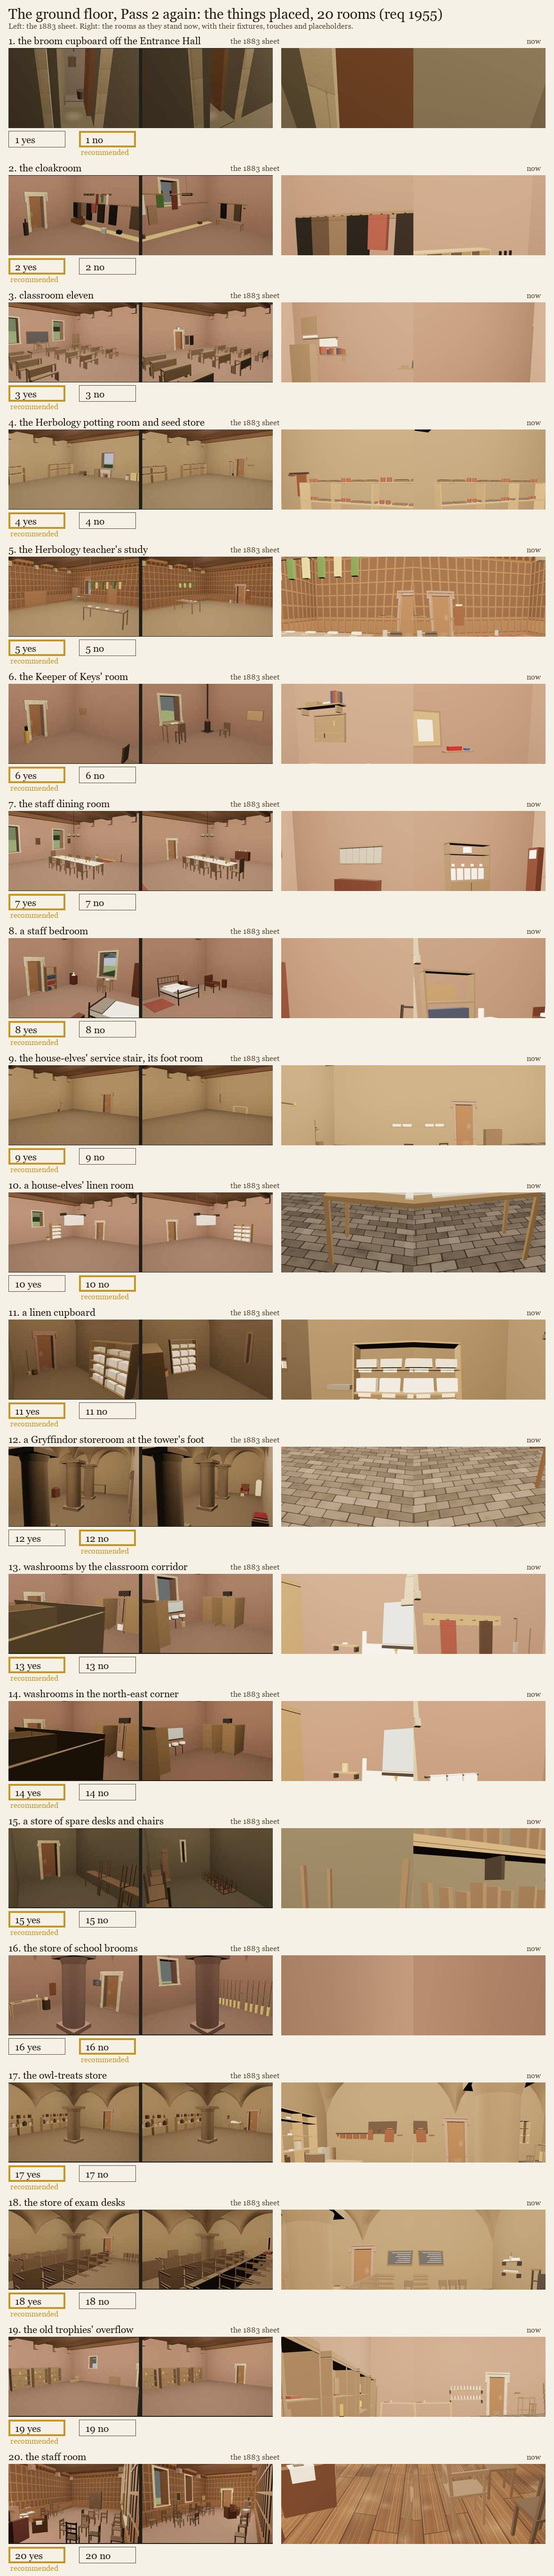
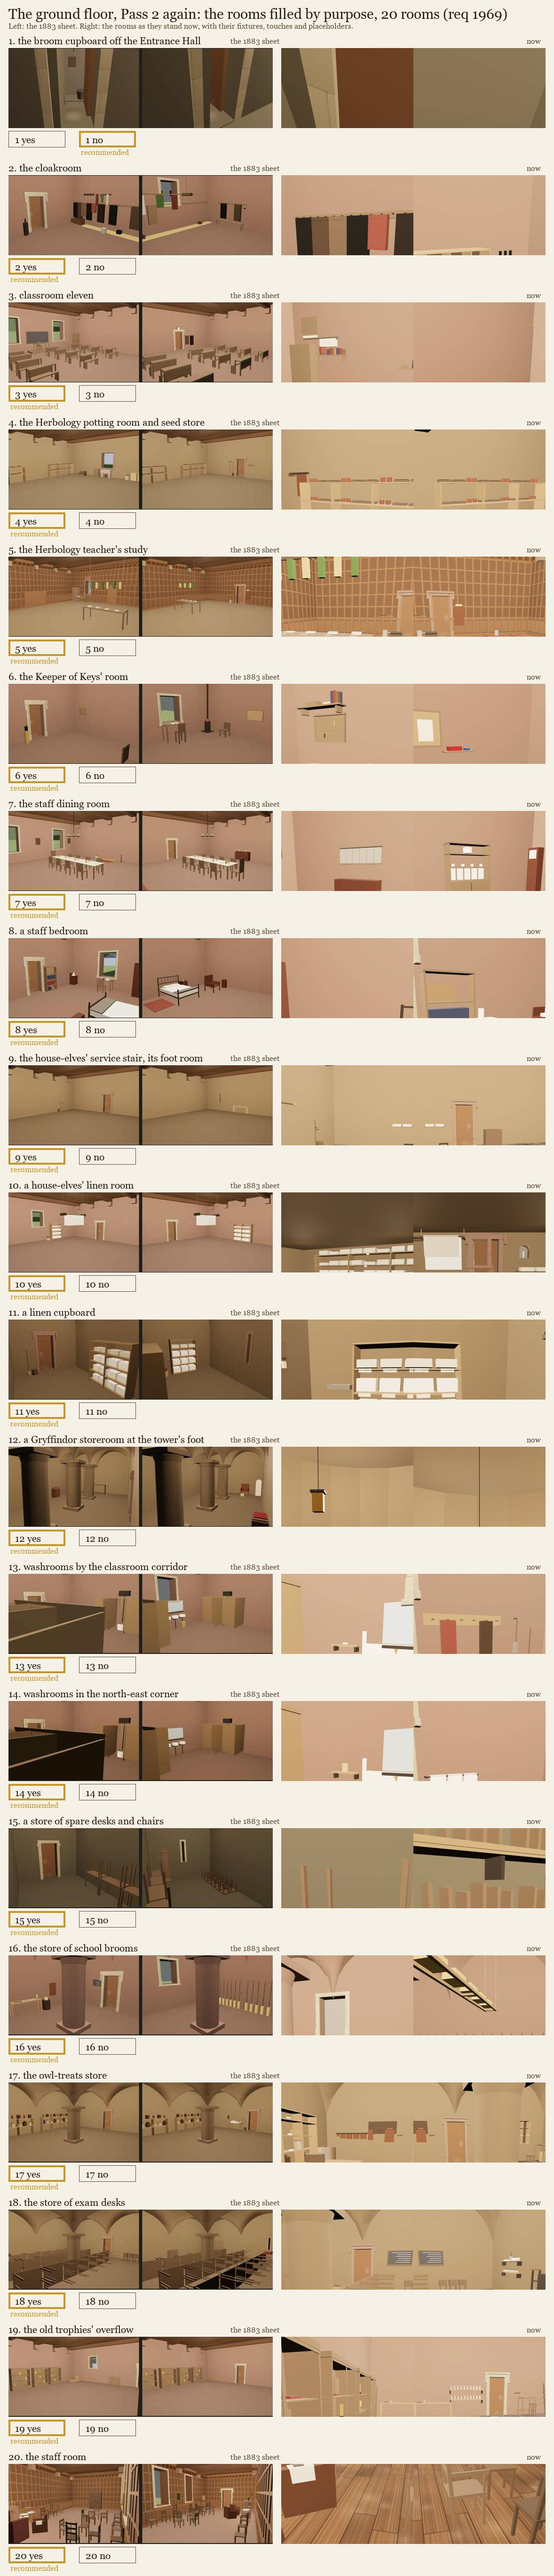
Public copy: shell-w5a.js and the ground floor Pass 2 sheet

diff --git a/page/shell-w5a.js b/page/shell-w5a.js
@@ -3057,6 +3057,153 @@ window.SHELL_W5A = {
   /* G-ADDS end elves-linen-room */
 })(window.SHELL_W5A.things);
 /* G-ADDS finish */
+/* G-PURPOSE begin */
+/* req 1969: the by-purpose fixtures (docs/interiors/ground-floor-by-purpose-1031.md), written by
+   tools/architect-g-purpose.py: never edit by hand. Each adds to its room's things. */
+(function (T) {
+  function add(id, items) { T[id] = T[id] || { items: [] }; T[id].items = T[id].items.concat(items); }
+  /* G-PURPOSE cloakroom-g */
+  /* req 1969, by-purpose n 2: a boot rack with dubbin tins and a bucket, three umbrellas, a drying rail, a mud brush and pan, a basket of odd gloves */
+  add('cloakroom-g', [
+    ['b', 111.37, 56.93, 0, 112.57, 57.23, 0.4, 'oak'], ['y', 112.7, 57.18, 0.05, 0, 0.1, 'tin'], ['y', 112.88, 57.18, 0.05, 0, 0.1, 'tin'], ['y', 113.16, 57.08, 0.15, 0, 0.3, 'leather'],
+    ['y', 111.17, 56.38, 0.03, 0, 0.9, 'black'], ['y', 111.17, 56.52, 0.03, 0, 0.9, 'black'], ['y', 111.17, 56.66, 0.03, 0, 0.9, 'black'], ['b', 117.43, 51.85, 1.9, 117.5, 53.51, 1.96, 'iron'],
+    ['b', 117.35, 51.93, 1.84, 117.45, 53.43, 1.9, 'wood'], ['b', 111.14, 55.9, 0, 111.32, 56.2, 0.12, 'wood'], ['y', 116.37, 56.98, 0.25, 0, 0.35, 'wicker'], ['b', 116.7, 57.11, 0, 116.95, 57.23, 0.08, 'scarlet']]);
+  /* G-PURPOSE end cloakroom-g */
+  /* G-PURPOSE classroom-eleven */
+  /* req 1969, by-purpose n 3: slates and chalk on a shelf, a fire bucket, a lectern, the register on a shelf, a coat stand by the door */
+  add('classroom-eleven', [
+    ['b', 129.07, 65.1, 1.0, 129.27, 67.74, 1.03, 'oak'], ['b', 129.19, 65.18, 1.03, 129.21, 65.48, 1.25, 'slate'], ['b', 129.19, 65.56, 1.03, 129.21, 65.86, 1.25, 'slate'], ['b', 129.19, 65.94, 1.03, 129.21, 66.24, 1.25, 'slate'],
+    ['b', 129.19, 66.32, 1.03, 129.21, 66.62, 1.25, 'slate'], ['b', 129.19, 66.7, 1.03, 129.21, 67.0, 1.25, 'slate'], ['b', 129.19, 67.08, 1.03, 129.21, 67.38, 1.25, 'slate'], ['b', 129.09, 67.46, 1.03, 129.21, 67.66, 1.11, 'oak'],
+    ['y', 129.08, 62.05, 0.15, 0, 0.28, 'tin'], ['b', 124.8, 60.77, 0, 125.3, 61.17, 1.1, 'oak'], ['b', 118.23, 66.2, 1.3, 118.49, 66.61, 1.33, 'oak'], ['b', 118.29, 66.28, 1.33, 118.47, 66.53, 1.38, 'leather'],
+    ['b', 118.8, 60.77, 0, 119.6, 61.07, 1.8, 'oak']]);
+  /* G-PURPOSE end classroom-eleven */
+  /* G-PURPOSE potting-room */
+  /* req 1969, by-purpose n 4: sacks of soil, a sieve, a watering can, six seed trays, cut pots, an apron and gloves, bean canes (gap), the sowing ledger */
+  add('potting-room', [
+    ['y', 148.07, 20.25, 0.2, 0, 0.6, 'canvas'], ['y', 148.07, 20.73, 0.2, 0, 0.6, 'canvas'], ['y', 148.07, 21.21, 0.2, 0, 0.6, 'canvas'], ['b', 159.95, 20.25, 1.6, 160.02, 20.71, 1.66, 'iron'],
+    ['b', 159.87, 20.33, 1.55, 159.97, 20.63, 1.6, 'wood'], ['y', 147.98, 25.16, 0.11, 0, 0.3, 'tin'], ['b', 159.66, 21.75, 0.9, 160.02, 25.01, 0.93, 'oak'], ['b', 159.66, 21.83, 0.93, 159.96, 22.28, 1.0, 'wood'],
+    ['b', 159.66, 22.36, 0.93, 159.96, 22.81, 1.0, 'wood'], ['b', 159.66, 22.89, 0.93, 159.96, 23.34, 1.0, 'wood'], ['b', 159.66, 23.42, 0.93, 159.96, 23.87, 1.0, 'wood'], ['b', 159.66, 23.95, 0.93, 159.96, 24.4, 1.0, 'wood'],
+    ['b', 159.66, 24.48, 0.93, 159.96, 24.93, 1.0, 'wood'], ['y', 158.875, 18.395, 0.125, 0, 0.25, 'brick'], ['y', 159.205, 18.395, 0.125, 0, 0.25, 'brick'], ['y', 159.535, 18.395, 0.125, 0, 0.25, 'brick'],
+    ['b', 158.45, 18.23, 1.7, 159.39, 18.3, 1.76, 'iron'], ['b', 158.53, 18.28, 0.9, 158.98, 18.33, 1.7, 'leather'], ['b', 159.06, 18.28, 1.64, 159.31, 18.43, 1.7, 'leather'], ['y', 159.88, 27.1, 0.1, 0, 1.2, 'wood'],
+    ['y', 159.88, 27.38, 0.1, 0, 1.2, 'wood'], ['b', 152.6, 18.23, 1.2, 153.01, 18.49, 1.23, 'oak'], ['b', 152.68, 18.29, 1.23, 152.93, 18.47, 1.28, 'leather']]);
+  /* G-PURPOSE end potting-room */
+  /* G-PURPOSE herbology-study-g */
+  /* req 1969, by-purpose n 5: a reading desk with lamp, catalogue and marking, spare boots, a pot of cuttings and a cup, a watering can */
+  add('herbology-study-g', [
+    ['t', 151.25, 38.46, 152.45, 39.06, 0.75, 'oak'], ['y', 151.445, 38.925, 0.075, 0.75, 1.05, 'brass'], ['b', 151.6, 38.8, 0.75, 151.9, 39.0, 0.9, 'leather'], ['b', 148.5, 28.94, 0, 149.1, 29.34, 0.03, 'straw'],
+    ['b', 159.69, 34.47, 0.9, 160.02, 35.04, 0.93, 'oak'], ['y', 159.835, 34.675, 0.125, 0.93, 1.18, 'brick'], ['y', 159.92, 34.92, 0.04, 0.93, 0.99, 'blue'], ['y', 147.98, 37.03, 0.11, 0, 0.3, 'tin']]);
+  /* G-PURPOSE end herbology-study-g */
+  /* G-PURPOSE porters-lodge */
+  /* req 1969, by-purpose n 6: the great key, a lost-property shelf and basket, the visitors book, an armchair, a table with mug and sugar bowl, a notice board, a lantern */
+  add('porters-lodge', [
+    ['b', 104.98, 50.86, 1.6, 105.16, 50.89, 1.9, 'iron'], ['b', 104.23, 55.1, 1.1, 104.43, 55.67, 1.13, 'oak'], ['b', 104.29, 55.18, 1.13, 104.41, 55.43, 1.21, 'scarlet'], ['b', 104.29, 55.51, 1.13, 104.41, 55.59, 1.17, 'blue'],
+    ['y', 104.52, 55.85, 0.25, 0, 0.35, 'wicker'], ['t', 104.8, 56.63, 106.4, 57.23, 0.8, 'pine'], ['b', 104.92, 56.99, 0.8, 105.17, 57.17, 0.85, 'leather'], ['b', 105.25, 57.13, 0.8, 105.4, 57.17, 0.83, 'wood'],
+    ['b', 109.8, 53.7, 0, 110.6, 54.5, 0.9, 'leather'], ['t', 110.0, 55.2, 110.6, 56.8, 0.8, 'pine'], ['y', 110.5, 55.36, 0.04, 0.8, 0.89, 'white'], ['y', 110.49, 55.53, 0.05, 0.8, 0.87, 'white'],
+    ['b', 108.73, 57.21, 1.2, 109.53, 57.24, 1.8, 'paper'], ['y', 110.5, 51.69, 0.11, 1.8, 2.2, 'brass']]);
+  /* G-PURPOSE end porters-lodge */
+  /* G-PURPOSE staff-dining-room */
+  /* req 1969, by-purpose n 7: a cruet and salt box, a tea urn and cups, a knife and napkins, a clock on a shelf */
+  add('staff-dining-room', [
+    ['t', 129.77, 64.0, 130.37, 65.6, 0.8, 'pine'], ['b', 129.83, 64.12, 0.8, 129.97, 64.32, 1.0, 'oak'], ['y', 129.89, 64.46, 0.06, 0.8, 1.0, 'white'], ['t', 140.13, 63.15, 140.73, 64.75, 0.8, 'pine'],
+    ['y', 140.58, 63.36, 0.09, 0.8, 1.0, 'steel'], ['y', 140.63, 63.57, 0.04, 0.8, 0.9, 'steel'], ['y', 140.63, 63.73, 0.04, 0.8, 0.9, 'steel'], ['y', 140.63, 63.89, 0.04, 0.8, 0.9, 'steel'],
+    ['y', 140.63, 64.05, 0.04, 0.8, 0.9, 'steel'], ['t', 136.4, 71.38, 138.0, 71.98, 0.8, 'pine'], ['b', 136.52, 71.88, 0.8, 136.77, 71.92, 0.82, 'steel'], ['b', 136.85, 71.72, 0.8, 137.1, 71.92, 0.82, 'white'],
+    ['b', 136.25, 60.73, 1.5, 136.66, 60.93, 1.53, 'oak'], ['b', 136.33, 60.79, 1.53, 136.58, 60.91, 1.83, 'wood']]);
+  /* G-PURPOSE end staff-dining-room */
+  /* G-PURPOSE staff-bedroom-g */
+  /* req 1969, by-purpose n 8: a chair and coat, slippers, a bedside cupboard with book and clock, a jug and basin, a trunk */
+  add('staff-bedroom-g', [
+    ['b', 152.27, 55.4, 0, 152.72, 55.85, 0.9, 'oak'], ['b', 152.23, 55.4, 1.9, 152.3, 56.06, 1.96, 'iron'], ['b', 152.28, 55.48, 1.0, 152.43, 55.98, 1.9, 'dark'], ['b', 159.86, 54.55, 0, 159.98, 54.63, 0.04, 'blue'],
+    ['b', 159.86, 54.71, 0, 159.98, 54.79, 0.04, 'blue'], ['t', 159.58, 53.1, 159.98, 53.55, 0.65, 'oak'], ['b', 159.72, 53.22, 0.65, 159.92, 53.52, 0.8, 'leather'], ['b', 159.84, 53.2, 1.0, 160.02, 53.46, 1.03, 'oak'],
+    ['y', 159.91, 53.33, 0.05, 1.03, 1.15, 'brass'], ['t', 157.75, 56.83, 158.25, 57.23, 0.85, 'white'], ['y', 157.93, 57.11, 0.06, 0.85, 1.05, 'white'], ['b', 153.65, 56.73, 0, 154.55, 57.23, 0.5, 'leather']]);
+  /* G-PURPOSE end staff-bedroom-g */
+  /* G-PURPOSE elves-service-stair-g */
+  /* req 1969, by-purpose n 9: tea cloths, a laundry sack, coal scuttle, scrubbing pail, a call slate, a lantern, polish tins, a stool, a tray trolley (gap) */
+  add('elves-service-stair-g', [
+    ['b', 11.81, 24.35, 1.0, 12.17, 25.39, 1.03, 'oak'], ['b', 11.81, 24.43, 1.03, 12.11, 24.83, 1.15, 'linen'], ['b', 11.81, 24.91, 1.03, 12.11, 25.31, 1.15, 'linen'], ['y', 0.47, 26.2, 0.2, 0, 0.6, 'canvas'],
+    ['y', 0.52, 21.4, 0.25, 0, 0.35, 'wicker'], ['b', 0.27, 21.73, 0, 0.3, 21.78, 0.08, 'tin'], ['y', 6.1, 28.25, 0.15, 0, 0.3, 'wood'], ['b', 6.33, 28.33, 0, 6.53, 28.4, 0.06, 'wood'],
+    ['b', 6.28, 18.26, 1.4, 6.58, 18.28, 1.62, 'slate'], ['y', 0.37, 23.39, 0.11, 2.0, 2.4, 'brass'], ['b', 2.5, 18.23, 1.3, 3.3, 18.41, 1.33, 'oak'], ['y', 2.63, 18.34, 0.05, 1.33, 1.43, 'tin'],
+    ['y', 2.81, 18.34, 0.05, 1.33, 1.43, 'tin'], ['y', 2.99, 18.34, 0.05, 1.33, 1.43, 'tin'], ['y', 3.17, 18.34, 0.05, 1.33, 1.43, 'tin'], ['y', 9.71, 28.24, 0.16, 0, 0.45, 'wood'],
+    ['b', 11.63, 21.4, 0, 12.13, 22.3, 0.85, 'wood']]);
+  /* G-PURPOSE end elves-service-stair-g */
+  /* G-PURPOSE elves-linen-room */
+  /* req 1969, by-purpose n 10: two sorting tables, baskets, a copper tub, a mangle and a clothes horse (gap), a second airing rail, a mending box, tagged sheets, a linen ledger, soap and starch, lavender */
+  add('elves-linen-room', [
+    ['y', 12.4, 69.43, 0.25, 0, 0.35, 'wicker'], ['y', 12.98, 69.43, 0.25, 0, 0.35, 'wicker'], ['b', 8.2, 69.18, 0, 9.2, 69.68, 0.4, 'stone'], ['y', 9.43, 69.53, 0.15, 0, 0.28, 'tin'],
+    ['b', 8.55, 69.65, 2.0, 10.21, 69.72, 2.06, 'iron'], ['b', 8.63, 69.57, 1.94, 10.13, 69.67, 2.0, 'wood'], ['b', 14.22, 68.7, 1.0, 14.42, 69.22, 1.03, 'oak'], ['b', 14.35, 68.78, 1.03, 14.36, 68.86, 1.15, 'paper'],
+    ['b', 14.24, 68.94, 1.03, 14.36, 69.14, 1.11, 'oak'], ['b', 12.15, 69.36, 1.0, 13.33, 69.72, 1.03, 'oak'], ['b', 12.23, 69.36, 1.03, 12.63, 69.66, 1.15, 'linen'], ['b', 12.71, 69.36, 1.03, 13.11, 69.66, 1.15, 'linen'],
+    ['b', 13.19, 69.65, 1.03, 13.25, 69.66, 1.13, 'paper'], ['b', 7.58, 63.75, 1.2, 7.8, 64.11, 1.23, 'oak'], ['b', 7.64, 63.83, 1.23, 7.78, 64.03, 1.43, 'oak'], ['b', 7.93, 63.61, 1.7, 8.03, 63.71, 2.05, 'straw']]);
+  /* G-PURPOSE end elves-linen-room */
+  /* G-PURPOSE linen-cupboard-g-west */
+  /* req 1969, by-purpose n 11: a mending basket and needle card, pillow-slips, a drying rail, lavender, a rolled blanket */
+  add('linen-cupboard-g-west', [
+    ['y', 0.27, 54.45, 0.25, 0, 0.35, 'wicker'], ['b', 0.02, 54.78, 0, 0.03, 54.86, 0.12, 'paper'], ['b', 3.41, 55.05, 0.5, 3.77, 56.09, 0.53, 'oak'], ['b', 3.41, 55.13, 0.53, 3.71, 55.53, 0.65, 'linen'],
+    ['b', 3.41, 55.61, 0.53, 3.71, 56.01, 0.65, 'linen'], ['b', -0.02, 52.3, 1.9, 0.05, 53.96, 1.96, 'iron'], ['b', 0.03, 52.38, 1.84, 0.13, 53.88, 1.9, 'wood'], ['b', 3.64, 55.88, 1.5, 3.74, 55.98, 1.85, 'straw'],
+    ['b', 2.6, 50.83, 1.0, 3.26, 51.19, 1.03, 'oak'], ['b', 2.68, 50.89, 1.03, 3.18, 51.24, 1.13, 'blanket']]);
+  /* G-PURPOSE end linen-cupboard-g-west */
+  /* G-PURPOSE washrooms-g-north */
+  /* req 1969, by-purpose n 13: a pail and mop, towels and a soap dish, a rota slate, a waste basket */
+  add('washrooms-g-north', [
+    ['y', 96.8, 51.02, 0.15, 0, 0.3, 'wood'], ['y', 97.065, 50.905, 0.035, 0, 1.3, 'wood'], ['b', 103.41, 53.5, 1.0, 103.77, 54.24, 1.03, 'oak'], ['b', 103.41, 53.58, 1.03, 103.71, 53.98, 1.15, 'linen'],
+    ['y', 103.66, 54.11, 0.05, 1.03, 1.07, 'white'], ['b', 103.72, 52.13, 1.4, 103.74, 52.43, 1.62, 'slate'], ['y', 102.5, 57.08, 0.15, 0, 0.35, 'wicker']]);
+  /* G-PURPOSE end washrooms-g-north */
+  /* G-PURPOSE washrooms-g-east */
+  /* req 1969, by-purpose n 14: a sand bucket, a hand brush, towels and soap, a drying rail */
+  add('washrooms-g-east', [
+    ['y', 145.15, 51.02, 0.15, 0, 0.28, 'tin'], ['b', 145.5, 50.87, 0, 145.8, 51.05, 0.12, 'wood'], ['b', 144.23, 53.5, 1.0, 144.59, 54.24, 1.03, 'oak'], ['b', 144.29, 53.58, 1.03, 144.59, 53.98, 1.15, 'linen'],
+    ['y', 144.34, 54.11, 0.05, 1.03, 1.07, 'white'], ['b', 151.7, 54.3, 1.8, 151.77, 55.96, 1.86, 'iron'], ['b', 151.62, 54.38, 1.74, 151.72, 55.88, 1.8, 'wood']]);
+  /* G-PURPOSE end washrooms-g-east */
+  /* G-PURPOSE spare-desks-store */
+  /* req 1969, by-purpose n 15: a repair bench with glue, mallet and screws, a chair seat-up, a numbered ledger, a brush */
+  add('spare-desks-store', [
+    ['t', 95.13, 55.3, 95.73, 56.9, 0.8, 'pine'], ['y', 95.62, 55.47, 0.05, 0.8, 0.92, 'glass'], ['b', 95.57, 55.6, 0.8, 95.67, 55.9, 0.9, 'wood'], ['b', 95.55, 55.98, 0.8, 95.67, 56.18, 0.88, 'oak'],
+    ['b', 92.27, 55.65, 0, 92.72, 56.1, 0.9, 'oak'], ['b', 92.23, 53.4, 1.2, 92.49, 53.81, 1.23, 'oak'], ['b', 92.29, 53.48, 1.23, 92.47, 53.73, 1.28, 'leather'], ['b', 95.55, 56.9, 0, 95.73, 57.2, 0.12, 'wood']]);
+  /* G-PURPOSE end spare-desks-store */
+  /* G-PURPOSE school-brooms-store */
+  /* req 1969, docs/interiors/ground-floor-by-purpose-1031.md n 16: a rail of mallet, hatchet and needle card, a nail tin and a box on a shelf, the bench stool, sand and water buckets, a brush by the door, three tar tins, two tied twig bundles (gap, plain) */
+  add('school-brooms-store', [
+    ['b', 120.98, 50.83, 1.5, 121.98, 50.9, 1.56, 'iron'], ['b', 121.06, 50.88, 1.4, 121.36, 50.98, 1.5, 'wood'], ['b', 121.44, 50.88, 1.38, 121.74, 50.92, 1.5, 'steel'], ['b', 121.82, 50.88, 1.38, 121.9, 50.89, 1.5, 'paper'],
+    ['b', 122.98, 50.83, 1.1, 123.52, 51.03, 1.13, 'oak'], ['b', 123.06, 50.89, 1.13, 123.26, 51.01, 1.21, 'oak'], ['y', 123.39, 50.94, 0.05, 1.13, 1.23, 'tin'], ['y', 121.99, 51.03, 0.16, 0, 0.45, 'wood'],
+    ['y', 124.18, 56.05, 0.15, 0, 0.28, 'tin'], ['y', 124.18, 56.43, 0.15, 0, 0.3, 'leather'], ['b', 124.15, 52.0, 0, 124.33, 52.3, 0.12, 'wood'], ['b', 123.23, 57.09, 1.2, 123.85, 57.27, 1.23, 'oak'],
+    ['y', 123.36, 57.16, 0.05, 1.23, 1.33, 'tin'], ['y', 123.54, 57.16, 0.05, 1.23, 1.33, 'tin'], ['y', 123.72, 57.16, 0.05, 1.23, 1.33, 'tin'], ['y', 123.28, 51.02, 0.15, 0, 1.1, 'straw'],
+    ['y', 123.66, 51.02, 0.15, 0, 1.1, 'straw']]);
+  /* G-PURPOSE end school-brooms-store */
+  /* G-PURPOSE owl-treats-store */
+  /* req 1969, by-purpose n 17: cages (gap), pouches, a straw bale (gap) and sack, a grooming shelf, a perch and balance, a glove, a trough, mealworms and grit, three parcels, a stool, a brush */
+  add('owl-treats-store', [
+    ['b', 10.0, 28.94, 0, 10.5, 29.34, 0.55, 'wicker'], ['b', 10.58, 28.94, 0, 11.08, 29.34, 0.55, 'wicker'], ['b', 11.16, 28.94, 0, 11.66, 29.34, 0.55, 'wicker'], ['b', 12.1, 36.82, 1.5, 12.17, 38.55, 1.56, 'iron'],
+    ['b', 12.02, 36.9, 1.25, 12.12, 37.2, 1.5, 'leather'], ['b', 12.02, 37.28, 1.25, 12.12, 37.58, 1.5, 'leather'], ['b', 12.02, 37.66, 1.25, 12.12, 37.96, 1.5, 'leather'], ['b', 12.02, 38.04, 1.28, 12.12, 38.29, 1.5, 'leather'],
+    ['y', 12.07, 38.42, 0.05, 1.38, 1.5, 'leather'], ['b', 1.0, 38.61, 0, 1.8, 39.06, 0.45, 'straw'], ['y', 2.08, 38.86, 0.2, 0, 0.6, 'canvas'], ['b', 0.23, 36.37, 1.0, 0.51, 37.24, 1.03, 'oak'],
+    ['b', 0.29, 36.45, 1.03, 0.36, 36.65, 1.09, 'wood'], ['b', 0.29, 36.73, 1.03, 0.49, 36.98, 1.05, 'leather'], ['y', 0.34, 37.11, 0.05, 1.03, 1.13, 'tin'], ['b', 11.83, 31.77, 0, 12.13, 32.17, 1.0, 'oak'],
+    ['b', 12.03, 32.25, 0, 12.13, 32.55, 0.3, 'brass'], ['b', 11.99, 35.1, 1.4, 12.14, 35.35, 1.46, 'leather'], ['b', 0.27, 36.37, 0, 0.77, 37.37, 0.4, 'stone'], ['y', 0.42, 37.6, 0.15, 0, 0.28, 'tin'],
+    ['b', 10.0, 28.9, 0.9, 10.62, 29.18, 0.93, 'oak'], ['b', 10.08, 28.96, 0.93, 10.38, 29.16, 0.98, 'paper'], ['y', 10.5, 29.0, 0.04, 0.93, 1.08, 'glass'], ['b', 0.23, 37.27, 1.0, 0.49, 38.76, 1.03, 'oak'],
+    ['b', 0.29, 37.35, 1.03, 0.47, 37.6, 1.13, 'paper'], ['b', 0.29, 37.68, 1.03, 0.47, 37.93, 1.13, 'paper'], ['b', 0.29, 38.01, 1.03, 0.47, 38.26, 1.13, 'paper'], ['b', 0.29, 38.34, 1.03, 0.3, 38.4, 1.13, 'paper'],
+    ['b', 0.29, 38.48, 1.03, 0.3, 38.54, 1.13, 'paper'], ['b', 0.29, 38.62, 1.03, 0.3, 38.68, 1.13, 'paper'], ['y', 0.81, 38.9, 0.16, 0, 0.45, 'wood'], ['b', 0.35, 38.88, 0, 0.65, 39.06, 0.12, 'wood']]);
+  /* G-PURPOSE end owl-treats-store */
+  /* G-PURPOSE exam-desks-store */
+  /* req 1969, by-purpose n 18: a hand trolley (gap), a cleaning shelf and bucket, a tally ledger, a crate of ink wells, a stepladder */
+  add('exam-desks-store', [
+    ['b', 6.45, 39.6, 0, 6.95, 40.1, 1.1, 'iron'], ['b', 5.9, 49.49, 0.9, 6.59, 49.77, 0.93, 'oak'], ['b', 5.98, 49.64, 0.93, 6.18, 49.71, 0.99, 'wood'], ['b', 6.26, 49.51, 0.93, 6.51, 49.71, 0.95, 'leather'],
+    ['y', 2.75, 49.58, 0.15, 0, 0.28, 'tin'], ['b', 0.23, 45.48, 1.1, 0.49, 45.89, 1.13, 'oak'], ['b', 0.29, 45.56, 1.13, 0.47, 45.81, 1.18, 'leather'], ['b', 11.78, 47.38, 0, 12.13, 47.88, 0.3, 'oak'],
+    ['b', 0.27, 48.38, 0, 0.35, 48.83, 1.6, 'wood']]);
+  /* G-PURPOSE end exam-desks-store */
+  /* G-PURPOSE old-trophies-overflow */
+  /* req 1969, by-purpose n 19: a dusting table, wrapped cups, a ledger, a stepladder, a lamp, a case under a sheet */
+  add('old-trophies-overflow', [
+    ['t', 147.87, 40.23, 148.52, 42.03, 0.8, 'pine'], ['b', 147.93, 40.35, 0.8, 148.13, 40.6, 0.82, 'leather'], ['y', 147.98, 40.73, 0.05, 0.8, 0.9, 'tin'], ['y', 159.905, 44.455, 0.075, 0, 0.3, 'gold'],
+    ['y', 159.905, 44.685, 0.075, 0, 0.3, 'gold'], ['b', 159.68, 44.84, 0, 159.98, 45.24, 0.12, 'linen'], ['b', 147.83, 45.68, 1.2, 148.09, 46.09, 1.23, 'oak'], ['b', 147.89, 45.76, 1.23, 148.07, 46.01, 1.28, 'leather'],
+    ['b', 159.9, 48.38, 0, 159.98, 48.83, 1.6, 'wood'], ['b', 151.1, 39.56, 1.3, 151.41, 39.79, 1.33, 'oak'], ['y', 151.255, 39.695, 0.075, 1.33, 1.63, 'brass'], ['b', 147.95, 39.6, 0, 148.95, 40.0, 1.6, 'oak'],
+    ['b', 149.03, 39.6, 0, 149.43, 39.9, 0.12, 'linen']]);
+  /* G-PURPOSE end old-trophies-overflow */
+  /* G-PURPOSE staff-room */
+  /* req 1969, by-purpose n 20: a rota board, a kettle on a side table, a coat stand and three gowns, a marking pile and biscuit tin, a clock */
+  add('staff-room', [
+    ['b', 134.63, 50.61, 1.3, 135.43, 50.64, 1.9, 'paper'], ['t', 141.38, 52.9, 141.98, 54.5, 0.8, 'pine'], ['y', 141.81, 53.13, 0.11, 0.8, 1.02, 'copper'], ['b', 141.72, 53.32, 0.8, 141.92, 53.52, 0.83, 'iron'],
+    ['b', 131.95, 50.62, 0, 132.75, 50.92, 1.8, 'oak'], ['b', 132.8, 50.58, 1.8, 134.62, 50.65, 1.86, 'iron'], ['b', 132.88, 50.63, 0.5, 133.38, 50.73, 1.8, 'dark'], ['b', 133.46, 50.63, 0.5, 133.96, 50.73, 1.8, 'dark'],
+    ['b', 134.04, 50.63, 0.5, 134.54, 50.73, 1.8, 'dark'], ['t', 134.25, 56.38, 135.85, 56.98, 0.8, 'pine'], ['b', 134.37, 56.72, 0.8, 134.67, 56.92, 0.95, 'leather'], ['y', 134.8, 56.87, 0.05, 0.8, 0.9, 'tin'],
+    ['b', 129.75, 56.82, 1.5, 130.16, 57.02, 1.53, 'oak'], ['b', 129.83, 56.84, 1.53, 130.08, 56.96, 1.83, 'wood']]);
+  /* G-PURPOSE end staff-room */
+})(window.SHELL_W5A.things);
+/* G-PURPOSE finish */
 /* G-TOUCHES begin */
 /* req 1864: the ground floor's lived-in touches (docs/interiors/ground-floor-lived-in-1029.md), written by
    tools/architect-g-touches.py: never edit by hand. Each adds to its room's things. */
